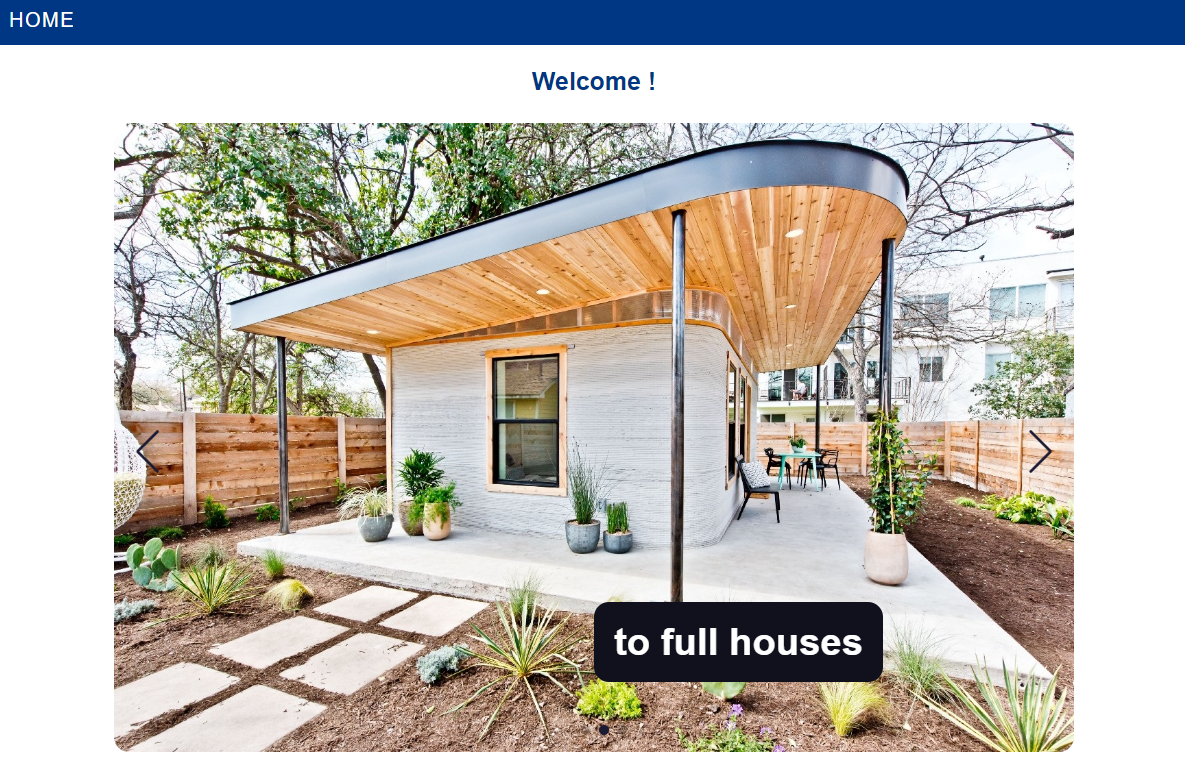
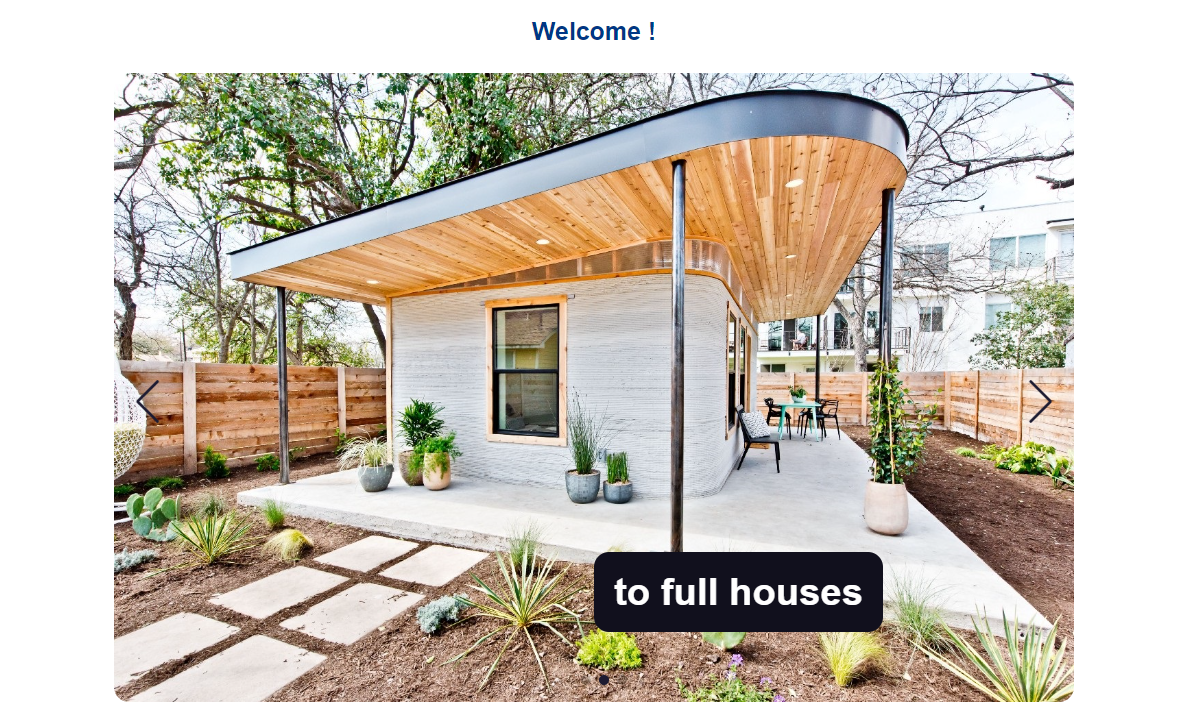
new plart project page

diff --git a/src/app/plart/plart.component.html b/src/app/plart/plart.component.html
@@ -9,29 +9,48 @@
 
 <div class="container">
     <div class="content">
-        <div class="picture-container">
-            <div class="desktop">
-                <div class="nav">
+        <mat-accordion>
+            <mat-expansion-panel expanded>
+              <mat-expansion-panel-header>
+                <mat-panel-title>
+                    <i class='bx bxs-navigation'></i>
                     <span>Navigation</span>
-                    <div class="pictures">
-                        <img class="smaller" [src]="imagePath + 'desktop/Nav.png'" alt="PLART">
-                    </div>
+                </mat-panel-title>
+              </mat-expansion-panel-header>
+              <div class="expansion-content">
+                <div class="pictures">
+                    <img class="other" [src]="imagePath + 'desktop/Nav.png'" alt="PLART">
                 </div>
-                <div class="home">
+              </div>
+            </mat-expansion-panel>
+            <mat-expansion-panel>
+              <mat-expansion-panel-header>
+                <mat-panel-title>
+                    <i class='bx bxs-home'></i>
                     <span>Home Page</span>
-                    <div class="pictures">
-                        <img [src]="imagePath + 'desktop/Slider.png'" alt="PLART">
-                        <img [src]="imagePath + 'desktop/Stat.png'" alt="PLART">
-                    </div>
-                    <ul>
-                        <li>Images swiper with dynamic descriptions</li>
-                        <li>Animated website stats with go to connect, user or objects pages when clicked</li>
-                    </ul>
+                </mat-panel-title>
+              </mat-expansion-panel-header>
+              <div class="expansion-content">
+                <div class="pictures">
+                    <img [src]="imagePath + 'desktop/Slider.png'" alt="PLART">
+                    <img [src]="imagePath + 'desktop/Stat.png'" alt="PLART">
                 </div>
-                <div class="object">
+                <ul>
+                    <li>Images swiper with dynamic descriptions</li>
+                    <li>Animated website stats with go to connect, user or objects pages when clicked</li>
+                </ul>
+              </div>
+            </mat-expansion-panel>
+            <mat-expansion-panel>
+                <mat-expansion-panel-header>
+                  <mat-panel-title>
+                    <i class='bx bx-cube-alt'></i>
                     <span>Object Page</span>
+                  </mat-panel-title>
+                </mat-expansion-panel-header>
+                <div class="expansion-content">
                     <div class="pictures">
-                        <img [src]="imagePath + 'PLART.png'" alt="PLART">
+                        <img class="larger" [src]="imagePath + 'PLART.png'" alt="PLART">
                     </div>
                     <ul>
                         <li>Search object or filter objects by category</li>
@@ -39,8 +58,15 @@
                         <li>Download the 3D printable file of any object</li>
                     </ul>
                 </div>
-                <div class="connect">
+            </mat-expansion-panel>
+            <mat-expansion-panel>
+                <mat-expansion-panel-header>
+                  <mat-panel-title>
+                    <i class='bx bx-laptop'></i>
                     <span>Connect Page</span>
+                  </mat-panel-title>
+                </mat-expansion-panel-header>
+                <div class="expansion-content">
                     <div class="pictures">
                         <img [src]="imagePath + 'desktop/Login.png'" alt="PLART">
                     </div>
@@ -50,8 +76,15 @@
                         <li>Logout is available on any page once logged in</li>
                     </ul>
                 </div>
-                <div class="account">
+            </mat-expansion-panel>
+            <mat-expansion-panel>
+                <mat-expansion-panel-header>
+                  <mat-panel-title>
+                    <i class='bx bxs-user'></i>
                     <span>Account Page</span>
+                  </mat-panel-title>
+                </mat-expansion-panel-header>
+                <div class="expansion-content">
                     <div class="pictures">
                         <img [src]="imagePath + 'desktop/Account.png'" alt="PLART">
                         <img [src]="imagePath + 'desktop/Add-object.png'" alt="PLART">
@@ -64,11 +97,18 @@
                         <li>Modify or delete your objects (delete needs confirmation)</li>
                     </ul>
                 </div>
-                <div class="message">
+            </mat-expansion-panel>
+            <mat-expansion-panel>
+                <mat-expansion-panel-header>
+                  <mat-panel-title>
+                    <i class='bx bxs-message'></i>
                     <span>Message Page</span>
+                  </mat-panel-title>
+                </mat-expansion-panel-header>
+                <div class="expansion-content">
                     <div class="pictures">
                         <img [src]="imagePath + 'desktop/Message.png'" alt="PLART">
-                        <img class="smaller" [src]="imagePath + 'desktop/User-search.png'" alt="PLART">
+                        <img class="other" [src]="imagePath + 'desktop/User-search.png'" alt="PLART">
                     </div>
                     <ul>
                         <li>Login needed to view this page</li>
@@ -77,10 +117,17 @@
                         <li>Send, modify or delete a message</li>
                     </ul>
                 </div>
-                <div class="admin">
+            </mat-expansion-panel>
+            <mat-expansion-panel>
+                <mat-expansion-panel-header>
+                  <mat-panel-title>
+                    <i class='bx bxs-key'></i>
                     <span>Admin Page</span>
+                  </mat-panel-title>
+                </mat-expansion-panel-header>
+                <div class="expansion-content">
                     <div class="pictures">
-                        <img [src]="imagePath + 'desktop/Admin.png'" alt="PLART">
+                        <img class="larger" [src]="imagePath + 'desktop/Admin.png'" alt="PLART">
                     </div>
                     <ul>
                         <li>Admin role needed to view this page</li>
@@ -88,21 +135,35 @@
                         <li>See all users, objects or messages</li>
                         <li>Delete user, object or message</li>
                     </ul>
-                </div>            
-            </div>
-            <div class="phone">
-                <span>Responsive design</span>
-                <div class="pictures">
-                    <img [src]="imagePath + 'phone/Admin.png'" alt="PLART">
-                    <img [src]="imagePath + 'phone/Message.png'" alt="PLART">
-                    <img [src]="imagePath + 'phone/Object.png'" alt="PLART">
                 </div>
-            </div>
-        </div>
-        <div class="video-container">
-            <span>Demo Video</span>
-            <video [src]="videoPath+'PLART.mp4'" autoplay loop muted controls></video>
-        </div>
+            </mat-expansion-panel>
+            <mat-expansion-panel>
+                <mat-expansion-panel-header>
+                  <mat-panel-title>
+                    <i class='bx bx-devices'></i>
+                    <span>Responsive design</span>
+                  </mat-panel-title>
+                </mat-expansion-panel-header>
+                <div class="expansion-content">
+                    <div class="pictures">
+                        <img class="smaller" [src]="imagePath + 'phone/Admin.png'" alt="PLART">
+                        <img class="smaller" [src]="imagePath + 'phone/Message.png'" alt="PLART">
+                        <img class="smaller" [src]="imagePath + 'phone/Object.png'" alt="PLART">
+                    </div>
+                </div>
+            </mat-expansion-panel>
+            <mat-expansion-panel>
+                <mat-expansion-panel-header>
+                  <mat-panel-title>
+                    <i class='bx bxs-video'></i>
+                    <span>Demo Video</span>
+                  </mat-panel-title>
+                </mat-expansion-panel-header>
+                <div class="expansion-content">
+                    <video [src]="videoPath+'PLART.mp4'" autoplay loop muted controls></video>
+                </div>
+            </mat-expansion-panel>
+        </mat-accordion>
     </div>
     <a href="https://github.com/Brice150/PLART" target="_blank" title="View Code" class="btn">View Code</a>
 </div>

diff --git a/src/app/plart/plart.component.css b/src/app/plart/plart.component.css
@@ -73,48 +73,7 @@ header .title:hover {
     width: 100%;
 }
 
-.container .content .picture-container {
-    display: flex;
-    align-items: center;
-    justify-content: center;
-    flex-direction: column;
-    width: 100%;
-}
-
-.container .content .picture-container .desktop {
-    display: flex;
-    align-items: center;
-    justify-content: center;
-    flex-direction: column;
-    width: 100%;
-}
-
-.container .content .picture-container .desktop .nav, .home, .object, .connect, .account, .message, .admin {
-    display: flex;
-    align-items: center;
-    justify-content: center;
-    flex-direction: column;
-    width: 100%;
-    margin-top: 20px;
-}
-
-.container .content .picture-container .phone {
-    display: flex;
-    align-items: center;
-    justify-content: center;
-    flex-direction: column;
-    width: 100%;
-    margin-top: 20px;
-}
-
-.container span {
-    font-size: 22px;
-    font-weight: 800;
-    margin-bottom: 5px;
-    color: var(--dark-blue);
-}
-
-.container .content .picture-container .pictures {
+.container .content .pictures {
     display: flex;
     align-items: center;
     justify-content: space-evenly;
@@ -122,33 +81,27 @@ header .title:hover {
     width: 100%;
 }
 
-.container .content .picture-container .desktop .pictures img:not(.smaller) {
+.container .content .pictures img {
     width: 100%;
-    max-width: 600px;
+    max-width: 500px;
     border-radius: 16px;
     box-shadow:  8px 8px 16px #909090,
              -8px -8px 16px #d8d8d8;
-    margin: 10px;
+    margin: 15px;
 }
 
-.container .content .picture-container .phone .pictures img {
-    width: 100%;
-    max-width: 350px;
-    height: 750px;
-    border-radius: 16px;
-    box-shadow:  8px 8px 16px #909090,
-             -8px -8px 16px #d8d8d8;
-    margin: 10px;
+.container .content .pictures .larger {
+    max-width: 900px;
+}
+
+.container .content .pictures .smaller {
+    max-width: 300px;
+    height: 650px;
     object-fit: fill;
 }
 
-.smaller {
-    width: 100%;
+.container .content .pictures .other {
     max-width: 300px;
-    border-radius: 16px;
-    box-shadow:  8px 8px 16px #909090,
-             -8px -8px 16px #d8d8d8;
-    margin: 10px;
 }
 
 .container ul li {
@@ -156,15 +109,6 @@ header .title:hover {
     font-size: 16px;
     font-weight: 500;
     color: var(--dark-blue);
-}
-
-.container .video-container {
-    display: flex;
-    align-items: center;
-    justify-content: center;
-    flex-direction: column;
-    width: 100%;
-    margin-top: 20px;
 }
 
 .container video {
@@ -199,4 +143,38 @@ header .title:hover {
     box-shadow: inset 5px 5px 23px #9c9c9c,
             inset -5px -5px 23px #ffffff;
     color: black;
+}
+
+mat-accordion {
+    width: 90%;
+    padding-top: 30px;
+}
+
+mat-accordion mat-expansion-panel {
+    background-color: var(--background);
+}
+
+mat-accordion mat-expansion-panel mat-panel-title {
+    color: var(--dark-blue);
+    font-size: 18px;
+    font-weight: 600;
+    padding: 3px 0;
+    display: flex;
+    align-items: center;
+}
+
+mat-accordion mat-expansion-panel mat-panel-title i {
+    margin-right: 10px;
+    color: var(--dark-blue);
+}
+
+::ng-deep .mat-expansion-indicator:after {
+    color: var(--dark-blue);
+}
+
+.expansion-content {
+    display: flex;
+    align-items: center;
+    justify-content: center;
+    flex-direction: column;
 }

diff --git a/src/app/plart/plart.module.ts b/src/app/plart/plart.module.ts
@@ -2,11 +2,12 @@ import { NgModule } from '@angular/core';
 import { CommonModule } from '@angular/common';
 import { PlartComponent } from './plart.component';
 import { RouterModule } from '@angular/router';
+import { MatExpansionModule } from '@angular/material/expansion';
 
 @NgModule({
   declarations: [PlartComponent],
   imports: [
-    CommonModule, RouterModule
+    CommonModule, RouterModule, MatExpansionModule
   ],
   exports: [PlartComponent]
 })
